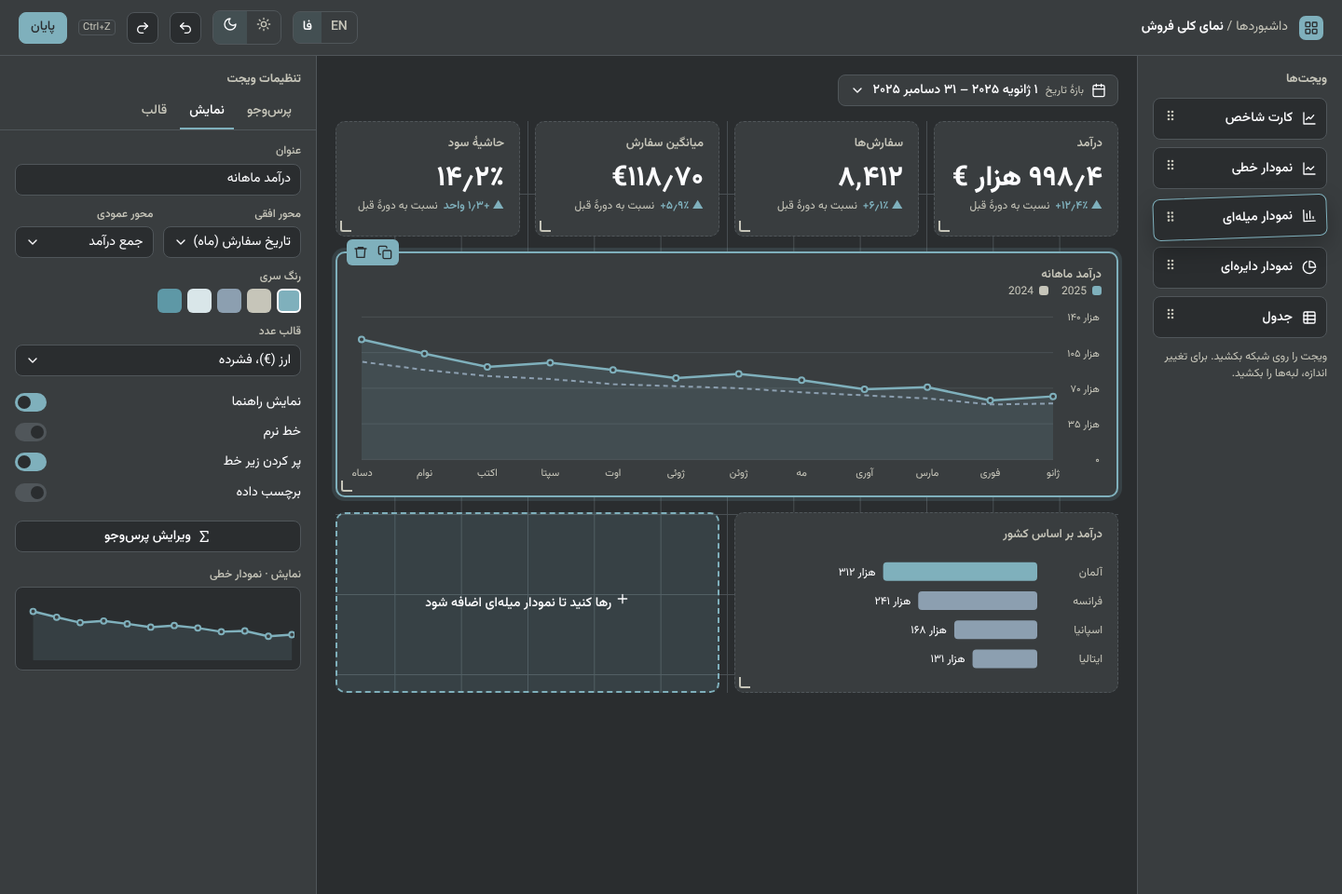
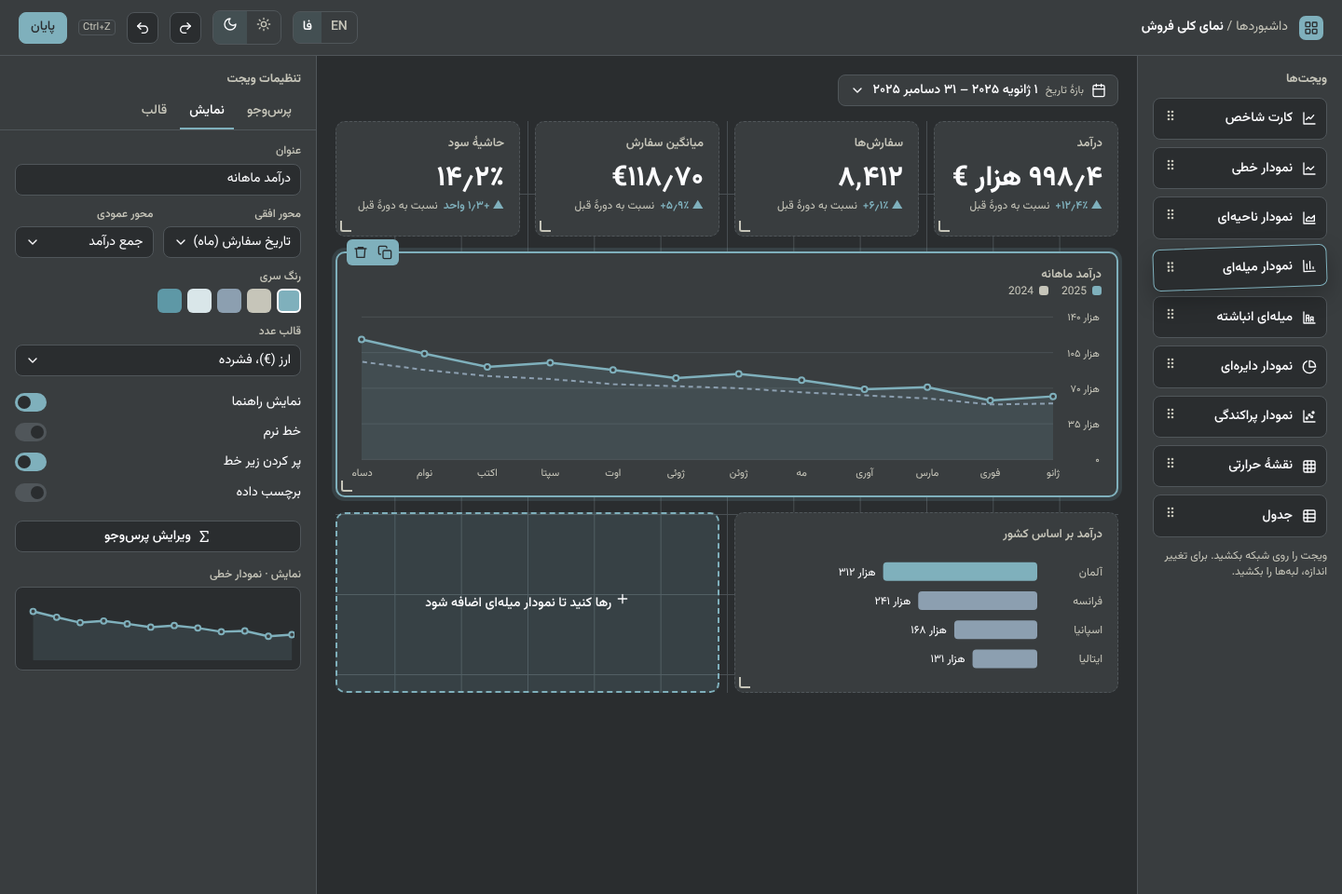
docs: revise mockups with four more chart types and TanStack-style table
- Add area, stacked bar, scatter and heatmap widgets (brief scope updated).
- Table widget shows sortable headers and pagination (TanStack Table).
- Donut is sized to its card so the ring no longer overflows.
- Query preview chart has a fixed height and a 'show as' type picker.
- RTL fixes: mirrored pagination chevrons and undo/redo icons.

Claude-Session: https://claude.ai/code/session_01VVghLNdVHfbJ8wWHPoTDxt

diff --git a/docs/mockups/mockup.html b/docs/mockups/mockup.html
@@ -37,17 +37,18 @@
   }
   * { box-sizing: border-box; }
   html, body { margin: 0; }
+  html { background: var(--bg); }
   #root { height: 100%; }
   body {
     background: var(--bg);
     color: var(--text);
     font: 14px/1.45 Inter, system-ui, sans-serif;
     width: 1440px;
-    height: 960px;
+    min-height: 960px;
     overflow: hidden;
   }
   [lang='fa'] body, [lang='fa'] { font-family: Vazirmatn, system-ui, sans-serif; }
-  .app { display: grid; grid-template-rows: 60px 1fr; height: 100%; }
+  .app { display: grid; grid-template-rows: 60px 1fr; min-height: 960px; }
   header {
     display: flex; align-items: center; gap: 12px;
     padding-inline: 20px;
@@ -144,12 +145,13 @@
 
   /* query builder */
   .qb main { grid-template-columns: 260px 1fr; }
+  body:has(.qb), .app.qb { min-height: 0; }
   .fields .ds { margin-block-end: 14px; }
   .fields .f { display: flex; align-items: center; gap: 8px; padding: 6px 8px; border-radius: 6px; cursor: grab; }
   .fields .f:hover, .fields .f.dragging { background: var(--bg); }
   .fields .f.dragging { border: 1px solid var(--accent); box-shadow: 0 8px 18px rgba(0,0,0,.25); }
   .type { width: 22px; height: 20px; border-radius: 4px; font-size: 10px; font-weight: 700; display: grid; place-items: center; background: var(--surface-2); color: var(--muted); font-family: Inter, sans-serif; }
-  .qwrap { padding: 20px 24px; display: grid; grid-template-rows: auto auto 1fr; gap: 16px; min-height: 0; }
+  .qwrap { padding: 20px 24px; display: grid; grid-template-rows: auto auto auto; align-content: start; gap: 16px; min-height: 0; }
   .sentence { font-size: 17px; background: var(--surface); border: 1px solid var(--border); border-radius: var(--radius); padding: 14px 16px; }
   .sentence b { color: var(--accent); font-weight: 600; }
   .zones { display: grid; grid-template-columns: 1fr 1fr; gap: 12px; }
@@ -159,8 +161,23 @@
   .pill em { font-style: normal; color: var(--muted); font-weight: 400; }
   .pill.add { background: transparent; border-style: dashed; border-color: var(--border); color: var(--muted); }
   .pill.target { border-color: var(--accent); color: var(--text); background: transparent; border-style: dashed; border-width: 2px; }
-  .preview { background: var(--surface); border: 1px solid var(--border); border-radius: var(--radius); padding: 12px 16px; display: grid; grid-template-columns: 1.5fr 1fr; gap: 16px; min-height: 0; }
+  .preview { background: var(--surface); border: 1px solid var(--border); border-radius: var(--radius); padding: 12px 16px; display: grid; grid-template-columns: 1.4fr 1fr; gap: 20px; height: 420px; }
   .preview .chart { margin: 0; }
+  .tcard { display: flex; flex-direction: column; min-height: 0; }
+  th .s { display: inline-flex; vertical-align: -3px; margin-inline-start: 4px; opacity: .45; }
+  th.sorted { color: var(--text); }
+  th.sorted .s { opacity: 1; color: var(--accent); }
+  .tfoot { display: flex; justify-content: space-between; align-items: center; gap: 12px; font-size: 12px; color: var(--muted); margin-block-start: auto; padding-block-start: 10px; }
+  .pg { display: flex; gap: 4px; align-items: center; }
+  .pg span { min-width: 26px; height: 26px; padding-inline: 4px; border: 1px solid var(--border); border-radius: 6px; display: inline-grid; place-items: center; color: var(--text); background: var(--bg); }
+  .pg span.on { background: var(--accent); color: var(--accent-fg); border-color: var(--accent); }
+  .pg span.dis { opacity: .45; }
+  .showas { display: flex; gap: 6px; flex-wrap: wrap; align-items: center; margin-block: 10px 4px; font-size: 12px; color: var(--muted); }
+  .showas span.t { display: inline-grid; place-items: center; width: 30px; height: 28px; border: 1px solid var(--border); border-radius: 6px; color: var(--text); background: var(--bg); }
+  .showas span.t.on { border-color: var(--accent); background: var(--accent-soft); color: var(--accent); }
+  .donut-wrap { display: flex; align-items: center; justify-content: center; gap: 20px; height: 100%; }
+  .donut-leg { display: grid; gap: 8px; font-size: 13px; }
+  .donut-leg i { display: inline-block; width: 10px; height: 10px; border-radius: 3px; margin-inline-end: 8px; }
   .mini svg { width: 100%; height: 100%; display: block; }
   .meta { font-size: 12px; color: var(--muted); display: flex; gap: 14px; }
 </style>
@@ -198,6 +215,9 @@ const T = {
     countries: ['Germany','France','Spain','Italy','Netherlands','Austria'],
     cats: ['Technology','Furniture','Office supplies','Accessories'],
     prods: [['Standing desk','Furniture',412,'186,420'],['Noise-cancel headset','Technology',980,'147,000'],['Ergonomic chair','Furniture',377,'131,950'],['4K monitor 27″','Technology',301,'105,350'],['Desk lamp','Accessories',1204,'48,160']],
+    areaChart: 'Area chart', stacked: 'Stacked bar', scatter: 'Scatter plot', heatmap: 'Heatmap',
+    byCatQ: 'Revenue by category per quarter', heatT: 'Orders by weekday and hour', scatterT: 'Discount vs. profit per order', areaT: 'Cumulative profit',
+    showAs: 'Show as', rowsOf: (a, b, c) => `Rows ${a}–${b} of ${c}`, perPage: '5 per page', quarters: ['Q1', 'Q2', 'Q3', 'Q4'], discount: 'Discount', profit: 'Profit',
     widgets: 'Widgets', kpi: 'KPI card', line: 'Line chart', bar: 'Bar chart', pie: 'Pie / donut', table: 'Table',
     dragHint: 'Drag a widget onto the grid. Drag edges to resize.', dropHere: 'Drop to add a bar chart',
     undo: 'Undo', redo: 'Redo', settings: 'Widget settings', tQuery: 'Query', tDisplay: 'Display', tFormat: 'Format',
@@ -224,6 +244,9 @@ const T = {
     countries: ['آلمان','فرانسه','اسپانیا','ایتالیا','هلند','اتریش'],
     cats: ['فناوری','مبلمان','لوازم اداری','لوازم جانبی'],
     prods: [['میز ایستاده','مبلمان',412,'186,420'],['هدست حذف نویز','فناوری',980,'147,000'],['صندلی ارگونومیک','مبلمان',377,'131,950'],['مانیتور ۲۷ اینچ','فناوری',301,'105,350'],['چراغ مطالعه','لوازم جانبی',1204,'48,160']],
+    areaChart: 'نمودار ناحیهای', stacked: 'میلهای انباشته', scatter: 'نمودار پراکندگی', heatmap: 'نقشهٔ حرارتی',
+    byCatQ: 'درآمد هر دسته در هر فصل', heatT: 'سفارشها بر اساس روز و ساعت', scatterT: 'تخفیف در برابر سود هر سفارش', areaT: 'سود تجمعی',
+    showAs: 'نمایش بهصورت', rowsOf: (a, b, c) => `ردیف ${a} تا ${b} از ${c}`, perPage: '۵ در هر صفحه', quarters: ['فصل ۱', 'فصل ۲', 'فصل ۳', 'فصل ۴'], discount: 'تخفیف', profit: 'سود',
     widgets: 'ویجتها', kpi: 'کارت شاخص', line: 'نمودار خطی', bar: 'نمودار میلهای', pie: 'نمودار دایرهای', table: 'جدول',
     dragHint: 'ویجت را روی شبکه بکشید. برای تغییر اندازه، لبهها را بکشید.', dropHere: 'رها کنید تا نمودار میلهای اضافه شود',
     undo: 'واگرد', redo: 'ازنو', settings: 'تنظیمات ویجت', tQuery: 'پرسوجو', tDisplay: 'نمایش', tFormat: 'قالب',
@@ -256,13 +279,22 @@ const ic = {
   moon: '<path d="M12 3a6 6 0 0 0 9 9 9 9 0 1 1-9-9Z"/>',
   dl: '<path d="M21 15v4a2 2 0 0 1-2 2H5a2 2 0 0 1-2-2v-4M7 10l5 5 5-5M12 15V3"/>',
   more: '<circle cx="12" cy="5" r="1"/><circle cx="12" cy="12" r="1"/><circle cx="12" cy="19" r="1"/>',
-  undo: '<path d="M9 14 4 9l5-5"/><path d="M4 9h10.5a5.5 5.5 0 0 1 0 11H11"/>',
-  redo: '<path d="m15 14 5-5-5-5"/><path d="M20 9H9.5a5.5 5.5 0 0 0 0 11H13"/>',
+  // Undo/redo arrows are mirrored in RTL.
+  [fa ? 'redo' : 'undo']: '<path d="M9 14 4 9l5-5"/><path d="M4 9h10.5a5.5 5.5 0 0 1 0 11H11"/>',
+  [fa ? 'undo' : 'redo']: '<path d="m15 14 5-5-5-5"/><path d="M20 9H9.5a5.5 5.5 0 0 0 0 11H13"/>',
   kpi: '<path d="M3 3v18h18"/><path d="M7 14l4-4 3 3 5-6"/>',
   line: '<path d="M3 3v18h18"/><path d="m19 9-5 5-4-4-3 3"/>',
   bar: '<path d="M3 3v18h18"/><path d="M8 17V9M13 17V5M18 17v-3"/>',
   pie: '<path d="M21.2 15.9A10 10 0 1 1 8 2.8"/><path d="M22 12A10 10 0 0 0 12 2v10z"/>',
   table: '<rect x="3" y="3" width="18" height="18" rx="2"/><path d="M3 9h18M3 15h18M9 3v18"/>',
+  area: '<path d="M3 3v18h18"/><path d="M7 17v-3l4-4 4 3 5-5v9Z"/>',
+  stack: '<path d="M3 3v18h18"/><path d="M7 18V8h4v10M14 18v-7h4v7M7 13h4M14 15h4"/>',
+  scatter: '<path d="M3 3v18h18"/><circle cx="8" cy="15" r="1.5"/><circle cx="12" cy="10" r="1.5"/><circle cx="16" cy="13" r="1.5"/><circle cx="18" cy="6" r="1.5"/>',
+  heat: '<rect x="3" y="3" width="18" height="18" rx="2"/><path d="M3 9h18M3 15h18M9 3v18M15 3v18"/>',
+  chevS: fa ? '<path d="m9 18 6-6-6-6"/>' : '<path d="m15 18-6-6 6-6"/>',
+  chevE: fa ? '<path d="m15 18-6-6 6-6"/>' : '<path d="m9 18 6-6-6-6"/>',
+  sortD: '<path d="M12 5v14M19 12l-7 7-7-7"/>',
+  sortN: '<path d="m7 15 5 5 5-5M7 9l5-5 5 5"/>',
   grip: '<circle cx="9" cy="6" r="1"/><circle cx="15" cy="6" r="1"/><circle cx="9" cy="12" r="1"/><circle cx="15" cy="12" r="1"/><circle cx="9" cy="18" r="1"/><circle cx="15" cy="18" r="1"/>',
   db: '<ellipse cx="12" cy="5" rx="9" ry="3"/><path d="M3 5v14c0 1.7 4 3 9 3s9-1.3 9-3V5"/><path d="M3 12c0 1.7 4 3 9 3s9-1.3 9-3"/>',
   x: '<path d="M18 6 6 18M6 6l12 12"/>',
@@ -287,7 +319,7 @@ const prev = [55, 54, 60, 63, 66, 70, 72, 74, 79, 82, 88, 96];
 function lineChart(w, h, series, labels, opt = {}) {
   const yw = opt.small ? 0 : fa ? 52 : 44;
   const pad = fa ? { t: 10, r: yw, b: opt.small ? 4 : 24, l: 10 } : { t: 10, r: 10, b: opt.small ? 4 : 24, l: yw };
-  const max = 140, iw = w - pad.l - pad.r, ih = h - pad.t - pad.b;
+  const max = opt.max || 140, iw = w - pad.l - pad.r, ih = h - pad.t - pad.b;
   const X = (i) => {
     const x = (i / (labels.length - 1)) * iw;
     return fa ? pad.l + iw - x : pad.l + x; // RTL: time flows right-to-left
@@ -304,7 +336,7 @@ function lineChart(w, h, series, labels, opt = {}) {
     const pts = ser.data.map((v, i) => `${X(i)},${Y(v)}`).join(' ');
     if (opt.area && k === 0) s += `<polygon points="${X(0)},${Y(0)} ${pts} ${X(ser.data.length - 1)},${Y(0)}" fill="${ser.c}" opacity=".14"/>`;
     s += `<polyline points="${pts}" fill="none" stroke="${ser.c}" stroke-width="${k ? 2 : 2.5}" ${ser.dash ? 'stroke-dasharray="5 4"' : ''} stroke-linejoin="round"/>`;
-    if (!ser.dash) ser.data.forEach((v, i) => (s += `<circle cx="${X(i)}" cy="${Y(v)}" r="3" fill="var(--surface)" stroke="${ser.c}" stroke-width="2"/>`));
+    if (!ser.dash && !opt.noDots) ser.data.forEach((v, i) => (s += `<circle cx="${X(i)}" cy="${Y(v)}" r="3" fill="var(--surface)" stroke="${ser.c}" stroke-width="2"/>`));
   });
   return `<svg class="ch" viewBox="0 0 ${w} ${h}">${s}</svg>`;
 }
@@ -325,18 +357,105 @@ function barChart(w, h, vals, labels) {
 }
 
 function donut(size, vals) {
-  const r = size / 2 - 8, c = size / 2, tot = vals.reduce((a, b) => a + b, 0);
+  const sw = Math.max(16, Math.round(size * 0.13));
+  const r = size / 2 - sw / 2 - 2, c = size / 2, tot = vals.reduce((a, b) => a + b, 0);
   let a0 = -Math.PI / 2, s = '';
   vals.forEach((v, i) => {
     const a1 = a0 + (v / tot) * Math.PI * 2 * (fa ? -1 : 1);
     const large = Math.abs(a1 - a0) > Math.PI ? 1 : 0, sweep = fa ? 0 : 1;
     const p = (a) => `${c + r * Math.cos(a)},${c + r * Math.sin(a)}`;
-    s += `<path d="M${p(a0)} A${r},${r} 0 ${large} ${sweep} ${p(a1)}" fill="none" stroke="var(--s${i + 1})" stroke-width="22"/>`;
+    s += `<path d="M${p(a0)} A${r},${r} 0 ${large} ${sweep} ${p(a1)}" fill="none" stroke="var(--s${i + 1})" stroke-width="${sw}"/>`;
     a0 = a1;
   });
-  s += `<text x="${c}" y="${c - 2}" text-anchor="middle" font-size="20" font-weight="700" fill="var(--text)">${eurC(998000)}</text>`;
+  s += `<text x="${c}" y="${c - 2}" text-anchor="middle" font-size="${size > 180 ? 20 : 16}" font-weight="700" fill="var(--text)">${eurC(998000)}</text>`;
   s += `<text x="${c}" y="${c + 16}" text-anchor="middle" font-size="11" fill="var(--muted)">${T.revenue}</text>`;
-  return `<svg viewBox="0 0 ${size} ${size}" style="width:${size}px;height:${size}px;flex:none">${s}</svg>`;
+  return `<svg class="ch" viewBox="0 0 ${size} ${size}" style="width:${size}px;height:${size}px;flex:none">${s}</svg>`;
+}
+
+// Donut sized to its card: the ring never overflows and the legend keeps its space.
+function donutCard(w, h, vals) {
+  const size = Math.max(110, Math.min(h, w - 170));
+  const leg = T.cats.map((t, i) => `<span><i style="background:var(--s${i + 1})"></i>${t} <b style="margin-inline-start:6px">${pct(vals[i])}</b></span>`).join('');
+  return `<div class="donut-wrap">${donut(size, vals)}<div class="donut-leg">${leg}</div></div>`;
+}
+
+// Shared value axis for the vertical charts. In Persian the category axis is mirrored.
+function frame(w, h, max, fmt, steps = 4) {
+  const yw = fa ? 56 : 46;
+  const pad = fa ? { t: 8, r: yw, b: 24, l: 8 } : { t: 8, r: 8, b: 24, l: yw };
+  const iw = w - pad.l - pad.r, ih = h - pad.t - pad.b;
+  const Y = (v) => pad.t + ih - (v / max) * ih;
+  const Xf = (f) => (fa ? pad.l + iw - f * iw : pad.l + f * iw);
+  let s = '';
+  for (let g = 0; g <= steps; g++) {
+    const v = (max / steps) * g, y = Y(v);
+    s += `<line x1="${pad.l}" x2="${w - pad.r}" y1="${y}" y2="${y}" stroke="var(--grid)"/>`;
+    s += `<text x="${fa ? w - 2 : pad.l - 8}" y="${y + 4}" font-size="11" fill="var(--muted)" text-anchor="end">${fmt(v)}</text>`;
+  }
+  return { s, Y, Xf, pad, iw, ih };
+}
+
+function stackedBar(w, h) {
+  const data = [[62, 70, 74, 92], [48, 52, 61, 70], [33, 38, 41, 52], [20, 22, 25, 31]];
+  const f = frame(w, h, 260, (v) => cf.format(v * 1000));
+  let s = f.s;
+  const n4 = 4, slot = f.iw / n4, bw = Math.min(56, slot * 0.5);
+  for (let i = 0; i < n4; i++) {
+    const cx = f.Xf((i + 0.5) / n4);
+    let acc = 0;
+    data.forEach((ser, k) => {
+      const y0 = f.Y(acc), y1 = f.Y(acc + ser[i]);
+      s += `<rect x="${cx - bw / 2}" y="${y1}" width="${bw}" height="${y0 - y1}" fill="var(--s${k + 1})" stroke="var(--surface)" stroke-width="1.5" rx="2"/>`;
+      acc += ser[i];
+    });
+    s += `<text x="${cx}" y="${h - 6}" font-size="11" fill="var(--muted)" text-anchor="middle">${T.quarters[i]}</text>`;
+  }
+  return `<svg class="ch" viewBox="0 0 ${w} ${h}">${s}</svg>`;
+}
+
+function scatter(w, h) {
+  let seed = 7;
+  const rnd = () => ((seed = (seed * 16807) % 2147483647) / 2147483647);
+  const f = frame(w, h, 600, (v) => eur(v));
+  let s = f.s;
+  for (let t = 0; t <= 40; t += 10) {
+    const edge = t === 40 ? (fa ? 'start' : 'end') : t === 0 ? (fa ? 'end' : 'start') : 'middle';
+    s += `<text x="${f.Xf(t / 40)}" y="${h - 6}" font-size="11" fill="var(--muted)" text-anchor="${edge}">${pct(t)}</text>`;
+  }
+  for (let i = 0; i < 70; i++) {
+    const k = i % 4, disc = rnd() * 38, prof = Math.max(10, 520 - disc * 11 + (rnd() - 0.5) * 220 - k * 40);
+    s += `<circle cx="${f.Xf(disc / 40)}" cy="${f.Y(prof)}" r="4.5" fill="var(--s${k + 1})" fill-opacity=".85" stroke="var(--surface)"/>`;
+  }
+  return `<svg class="ch" viewBox="0 0 ${w} ${h}">${s}</svg>`;
+}
+
+function heatmap(w, h) {
+  const days = [...Array(7)].map((_, i) => new Intl.DateTimeFormat(fa ? 'fa-IR-u-ca-gregory' : 'en-US', { weekday: fa ? 'long' : 'short' }).format(new Date(2025, 0, 6 + i)));
+  const lw = fa ? 64 : 40, cols = 12, rows = 7, top = 2, bottom = 20;
+  const cw = (w - lw) / cols, ch = (h - top - bottom) / rows;
+  let s = '';
+  for (let r = 0; r < rows; r++) {
+    s += `<text x="${fa ? w - 2 : lw - 8}" y="${top + r * ch + ch / 2 + 4}" font-size="11" fill="var(--muted)" text-anchor="end">${days[r]}</text>`;
+    for (let c = 0; c < cols; c++) {
+      const hour = c * 2, work = r < 5 ? 1 : 0.55;
+      const v = Math.max(0.04, Math.exp(-((hour - 13) ** 2) / 22) * work + (hour >= 18 && hour <= 22 ? 0.25 : 0) * (r >= 4 ? 1.2 : 0.6));
+      const x = fa ? w - lw - (c + 1) * cw : lw + c * cw;
+      s += `<rect x="${x + 1.5}" y="${top + r * ch + 1.5}" width="${cw - 3}" height="${ch - 3}" rx="3" fill="var(--accent)" fill-opacity="${Math.min(1, 0.1 + v * 0.9).toFixed(2)}"/>`;
+    }
+  }
+  for (let c = 0; c < cols; c += 2) {
+    const x = fa ? w - lw - c * cw - cw / 2 : lw + c * cw + cw / 2;
+    s += `<text x="${x}" y="${h - 4}" font-size="11" fill="var(--muted)" text-anchor="middle">${new Intl.NumberFormat(loc, { minimumIntegerDigits: 2 }).format(c * 2)}:${fa ? '۰۰' : '00'}</text>`;
+  }
+  return `<svg class="ch" viewBox="0 0 ${w} ${h}">${s}</svg>`;
+}
+
+// Table widget mockup following TanStack Table: sortable headers, pagination footer.
+function dataTable(cols, rows, { sorted, total, pages = 10 }) {
+  const head = cols.map((c, i) => `<th class="${c.n ? 'n' : ''} ${i === sorted ? 'sorted' : ''}">${c.t}<span class="s">${I(i === sorted ? 'sortD' : 'sortN').replace('class="i"', 'class="i" style="width:13px;height:13px"')}</span></th>`).join('');
+  const body = rows.map((r) => `<tr>${r.map((v, i) => `<td class="${cols[i].n ? 'n' : ''}" ${cols[i].m ? 'style="color:var(--muted)"' : ''}>${v}</td>`).join('')}</tr>`).join('');
+  const pg = `<div class="pg"><span class="dis">${I('chevS')}</span><span class="on">${n(1)}</span><span>${n(2)}</span><span>${n(3)}</span>${pages > 3 ? `<span style="border:0;background:none">…</span><span>${n(pages)}</span>` : ''}<span>${I('chevE')}</span></div>`;
+  return `<table><thead><tr>${head}</tr></thead><tbody>${body}</tbody></table><div class="tfoot"><span>${T.rowsOf(n(1), n(rows.length), n(total))}${fa ? '، ' : ' · '}${T.perPage}</span>${pg}</div>`;
 }
 
 const cats = [38, 29, 21, 12];
@@ -370,11 +489,18 @@ function dashboardGrid(edit) {
   const handle = edit ? '<div class="handle"></div>' : '';
   const more = edit ? '' : `<span class="more" style="color:var(--muted)">${I('more')}</span>`;
   let g = kpis.map((k) => kpiCard(k, handle)).join('');
-  g += `<div class="card ${edit ? 'sel' : ''}" style="grid-column:span ${edit ? 12 : 8};grid-row:span 4">${sel}${handle}<h3>${T.byMonth}${more}</h3>${legend(['2025', '2024'])}${C((w, h) => lineChart(w, h, [{ data: revenue, c: 'var(--s1)' }, { data: prev, c: 'var(--s3)', dash: true }], months, { area: true }))}</div>`;
+  g += `<div class="card ${edit ? 'sel' : ''}" style="grid-column:span ${edit ? 12 : 8};grid-row:span ${edit ? 4 : 5}">${sel}${handle}<h3>${T.byMonth}${more}</h3>${legend(['2025', '2024'])}${C((w, h) => lineChart(w, h, [{ data: revenue, c: 'var(--s1)' }, { data: prev, c: 'var(--s3)', dash: true }], months, { area: true }))}</div>`;
   if (!edit) {
-    g += `<div class="card" style="grid-column:span 4;grid-row:span 4"><h3>${T.byCategory || T.byCat}${more}</h3><div style="display:flex;align-items:center;gap:16px;flex:1">${donut(170, cats)}<div style="display:grid;gap:8px;font-size:13px">${T.cats.map((t, i) => `<span><i style="display:inline-block;width:10px;height:10px;border-radius:3px;background:var(--s${i + 1});margin-inline-end:8px"></i>${t} <b style="margin-inline-start:6px">${pct(cats[i])}</b></span>`).join('')}</div></div></div>`;
-    g += `<div class="card" style="grid-column:span 5;grid-row:span 4"><h3>${T.byCountry}${more}</h3>${C((w, h) => barChart(w, h, [312, 241, 168, 131, 88, 58], T.countries))}</div>`;
-    g += `<div class="card" style="grid-column:span 7;grid-row:span 4"><h3>${T.top}${more}</h3><table><thead><tr><th>${T.product}</th><th>${T.cat}</th><th class="n">${T.qty}</th><th class="n">${T.rev}</th></tr></thead><tbody>${T.prods.map((p) => `<tr><td>${p[0]}</td><td style="color:var(--muted)">${p[1]}</td><td class="n">${n(p[2])}</td><td class="n">${eur(+p[3].replace(',', ''))}</td></tr>`).join('')}</tbody></table></div>`;
+    const card = (span, title, body, cls = '') => `<div class="card ${cls}" style="grid-column:span ${span};grid-row:span 5"><h3>${title}${more}</h3>${body}</div>`;
+    const prodRows = T.prods.map((p) => [p[0], p[1], n(p[2]), eur(+p[3].replace(',', ''))]);
+    const cumul = [8, 17, 28, 38, 50, 63, 75, 89, 104, 117, 129, 136];
+    g += card(4, T.byCat, C((w, h) => donutCard(w, h, cats)));
+    g += card(7, T.byCatQ, legend(T.cats) + C((w, h) => stackedBar(w, h)));
+    g += card(5, T.byCountry, C((w, h) => barChart(w, h, [312, 241, 168, 131, 88, 58], T.countries)));
+    g += card(7, T.heatT, C((w, h) => heatmap(w, h)));
+    g += card(5, T.scatterT, legend(T.cats) + C((w, h) => scatter(w, h)));
+    g += card(5, T.areaT, C((w, h) => lineChart(w, h, [{ data: cumul, c: 'var(--s3)' }], months, { area: true, noDots: true, every: 2 })));
+    g += card(7, T.top, dataTable([{ t: T.product }, { t: T.cat, m: 1 }, { t: T.qty, n: 1 }, { t: T.rev, n: 1 }], prodRows, { sorted: 3, total: 48 }), 'tcard');
   } else {
     g += `<div class="card" style="grid-column:span 6;grid-row:span 3">${handle}<h3>${T.byCountry}</h3>${C((w, h) => barChart(w, h, [312, 241, 168, 131], T.countries.slice(0, 4)))}</div>`;
     g += `<div class="drop" style="grid-column:span 6;grid-row:span 3"><span>${I('plus')} ${T.dropHere}</span></div>`;
@@ -390,7 +516,7 @@ function viewDashboard() {
 }
 
 function viewEdit() {
-  const pal = [['kpi', T.kpi], ['line', T.line], ['bar', T.bar], ['pie', T.pie], ['table', T.table]];
+  const pal = [['kpi', T.kpi], ['line', T.line], ['area', T.areaChart], ['bar', T.bar], ['stack', T.stacked], ['pie', T.pie], ['scatter', T.scatter], ['heat', T.heatmap], ['table', T.table]];
   const months = fa ? T.months.map((m) => m.slice(0, 4)) : T.months;
   return `<div class="app edit">${header('edit')}<main>
     <aside><h4>${T.widgets}</h4><div class="pal">${pal.map(([k, t]) => `<div class="${k === 'bar' ? 'dragging' : ''}">${I(k)}${t}<span class="grip">${I('grip')}</span></div>`).join('')}</div><p class="hint">${T.dragHint}</p></aside>
@@ -418,7 +544,7 @@ function viewQB() {
   const s = T.sent;
   const months = fa ? T.months.map((m) => m.slice(0, 4)) : T.months;
   const de = [21, 19, 24, 23, 26, 28, 27, 29, 31, 30, 34, 39];
-  const rows = [11, 10, 9, 8, 7].map((i) => `<tr><td>${T.months[i]} ${d(2025)}</td><td class="n">${eur(de[i] * 1000 + 412)}</td><td class="n">${n(Math.round(de[i] * 8.4))}</td></tr>`).join('');
+  const rowsQ = [11, 10, 9, 8, 7].map((i) => [`${T.months[i]} ${d(2025)}`, eur(de[i] * 1000 + 412), n(Math.round(de[i] * 8.4))]);
   return `<div class="app qb">${header('qb')}<main>
     <aside class="fields">
       <h4>${T.datasets}</h4>
@@ -437,8 +563,12 @@ function viewQB() {
         <div class="zone"><h5>${I('sort')}${T.sortLimit}</h5><span class="pill">${T.sortV}${I('down')}</span><span class="pill">${T.limitV}${I('down')}</span></div>
       </div>
       <div class="preview">
-        <div style="display:flex;flex-direction:column;min-height:0"><div style="display:flex;justify-content:space-between;align-items:center"><b>${T.preview}</b><span class="meta"><span>${T.rows}</span><span>${T.ms}</span><span>${T.cached}</span></span></div>${C((w, h) => lineChart(w, h, [{ data: de.map((v) => v * 3.2), c: 'var(--s1)' }], months, { area: true }))}</div>
-        <div><table><thead><tr><th>${T.month}</th><th class="n">${T.fRevenue}</th><th class="n">${T.orders}</th></tr></thead><tbody>${rows}</tbody></table></div>
+        <div style="display:flex;flex-direction:column;min-height:0">
+          <div style="display:flex;justify-content:space-between;align-items:center"><b>${T.preview}</b><span class="meta"><span>${T.rows}</span><span>${T.ms}</span><span>${T.cached}</span></span></div>
+          <div class="showas">${T.showAs}${['line', 'area', 'bar', 'stack', 'kpi', 'table'].map((k) => `<span class="t ${k === 'area' ? 'on' : ''}">${I(k)}</span>`).join('')}</div>
+          ${C((w, h) => lineChart(w, h, [{ data: de.map((v) => v * 3.2), c: 'var(--s1)' }], months, { area: true }))}
+        </div>
+        <div class="tcard">${dataTable([{ t: T.month }, { t: T.fRevenue, n: 1 }, { t: T.orders, n: 1 }], rowsQ, { sorted: 0, total: 12, pages: 3 })}</div>
       </div>
     </div>
   </main></div>`;

diff --git a/docs/brief.md b/docs/brief.md
@@ -65,7 +65,11 @@ add features beyond this list without asking.
   count, min, max), group by one or two fields (date fields by day, week, month
   or year), simple filters (AND list), sort, limit. Queries are stored as JSON and
   compiled to safe, parameterized SQL.
-- Widgets (5 types): KPI card, line chart, bar chart, pie/donut chart, table.
+- Widgets (9 types): KPI card, line chart, area chart, bar chart, stacked bar
+  chart, pie/donut chart, scatter plot, heatmap (e.g. weekday × hour), table.
+  The four extra chart types were added by the user on 2026-10-20.
+- The table widget is built with TanStack Table (sortable columns, pagination),
+  in the widget and in the query builder preview.
 - Drag and drop everywhere it helps: drag a widget type from a palette onto the
   grid, move and resize widgets on the grid, and drag dataset fields into the
   query builder (measures, group by, filters).
@@ -77,7 +81,7 @@ add features beyond this list without asking.
 - Light and dark themes; English and Persian.
 
 Not in scope (maybe later, only if the user asks): raw SQL mode, cross-filtering,
-drill-down, more chart types, maps, pivot tables, auto refresh, PNG/CSV
+drill-down, chart types beyond the nine above, maps, pivot tables, auto refresh, PNG/CSV
 export, templates gallery.
 
 ## Colors

diff --git a/docs/mockups/README.md b/docs/mockups/README.md
@@ -1,6 +1,7 @@
 # Mockups
 
-Static design mockups for approval before app code: dashboard view, edit mode
+Static design mockups for approval before app code: dashboard view (all nine
+widget types), edit mode
 with the widget settings panel, and the query builder, in dark and light,
 English and Persian. Charts are hand-drawn SVG, not ECharts.
 
